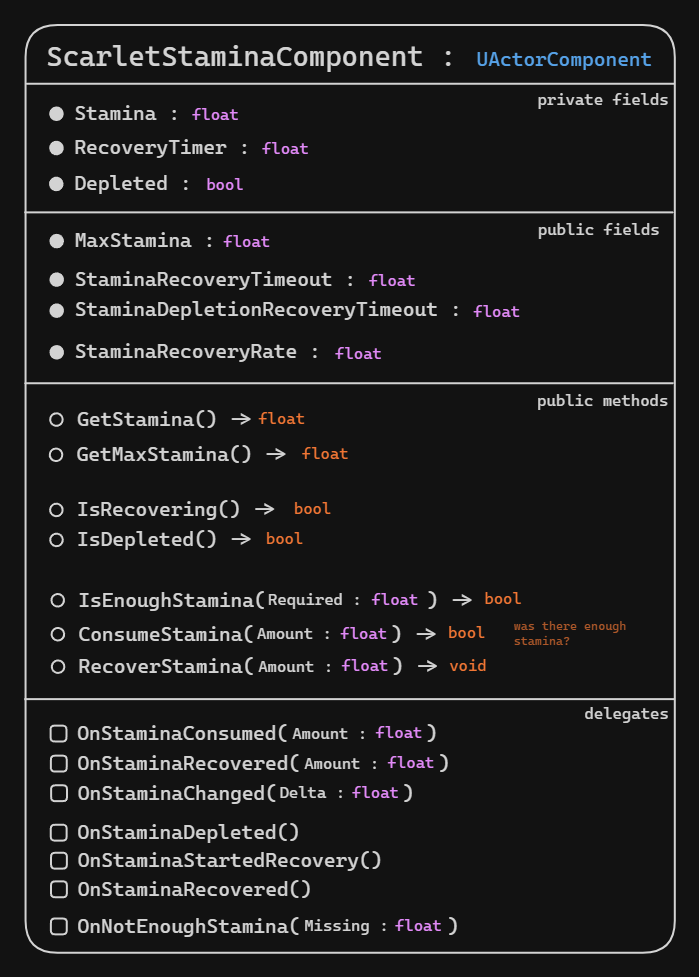
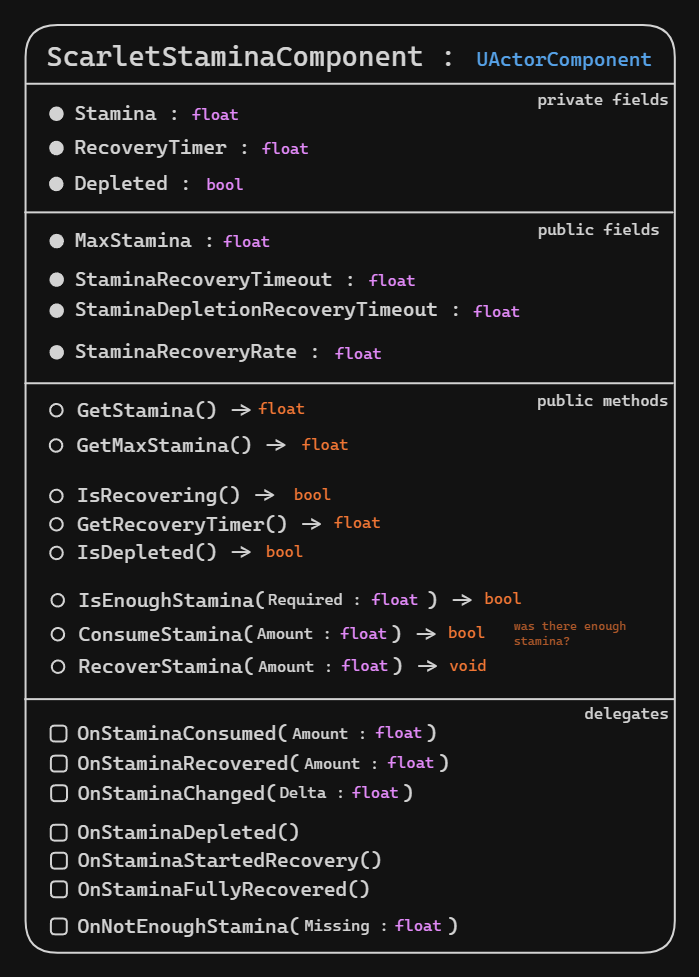
[DOCS] Code design adjustments

Changed region(s): [[0.0601, 0.3992, 0.5408, 0.5834], [0.2704, 0.8905, 0.5408, 0.9212]]

diff --git a/Documentation/Code Design.md b/Documentation/Code Design.md
@@ -124,7 +124,7 @@ OnStaminaDepleted() ^6gGfJg8X
 
 OnStaminaStartedRecovery() ^Zleio04Q
 
-OnStaminaRecovered() ^0m8OsVhT
+OnStaminaFullyRecovered() ^0m8OsVhT
 
 was there enough stamina? ^OmoCuCQX
 
@@ -136,6 +136,10 @@ Missing : ^9cOIVzkJ
 
 float ^f2dUxLPF
 
+GetRecoveryTimer() -> ^39rZRAEg
+
+float ^NKrJe1QE
+
 %%
 ## Drawing
 ```compressed-json
@@ -143,232 +147,224 @@ N4KAkARALgngDgUwgLgAQQQDwMYEMA2AlgCYBOuA7hADTgQBuCpAzoQPYB2KqATLZMzYBXUtiRoIACyh
 
[1 lines of base64/hex data omitted]
 
[2 lines of base64/hex data omitted]
 
[2 lines of base64/hex data omitted]
 
[2 lines of base64/hex data omitted]
 
[2 lines of base64/hex data omitted]
 
[2 lines of base64/hex data omitted]
 
[2 lines of base64/hex data omitted]
 
[2 lines of base64/hex data omitted]
 
[2 lines of base64/hex data omitted]
 
[2 lines of base64/hex data omitted]
 
[2 lines of base64/hex data omitted]
 
[2 lines of base64/hex data omitted]
 
[2 lines of base64/hex data omitted]
 
[2 lines of base64/hex data omitted]
 
[2 lines of base64/hex data omitted]
 
[2 lines of base64/hex data omitted]
 
[2 lines of base64/hex data omitted]
 
[2 lines of base64/hex data omitted]
 
[2 lines of base64/hex data omitted]
 
[2 lines of base64/hex data omitted]
 
[2 lines of base64/hex data omitted]
 
[2 lines of base64/hex data omitted]
 
[2 lines of base64/hex data omitted]
 
[2 lines of base64/hex data omitted]
 
[2 lines of base64/hex data omitted]
 
[2 lines of base64/hex data omitted]
 
[2 lines of base64/hex data omitted]
 
[2 lines of base64/hex data omitted]
 
[2 lines of base64/hex data omitted]
 
[2 lines of base64/hex data omitted]
 
[2 lines of base64/hex data omitted]
 
[2 lines of base64/hex data omitted]
 
[2 lines of base64/hex data omitted]
 
[2 lines of base64/hex data omitted]
 
[2 lines of base64/hex data omitted]
 
[2 lines of base64/hex data omitted]
 
[2 lines of base64/hex data omitted]
 
[2 lines of base64/hex data omitted]
 
[2 lines of base64/hex data omitted]
 
[2 lines of base64/hex data omitted]
 
[2 lines of base64/hex data omitted]
 
[2 lines of base64/hex data omitted]
 
[2 lines of base64/hex data omitted]
 
[2 lines of base64/hex data omitted]
 
[2 lines of base64/hex data omitted]
 
[2 lines of base64/hex data omitted]
 
[2 lines of base64/hex data omitted]
 
[2 lines of base64/hex data omitted]
 
[2 lines of base64/hex data omitted]
 
[2 lines of base64/hex data omitted]
 
[2 lines of base64/hex data omitted]
 
[2 lines of base64/hex data omitted]
 
[2 lines of base64/hex data omitted]
 
[2 lines of base64/hex data omitted]
 
[2 lines of base64/hex data omitted]
 
[2 lines of base64/hex data omitted]
 
[2 lines of base64/hex data omitted]
 
[2 lines of base64/hex data omitted]
 
[2 lines of base64/hex data omitted]
 
[2 lines of base64/hex data omitted]
 
[2 lines of base64/hex data omitted]
 
[2 lines of base64/hex data omitted]
 
[2 lines of base64/hex data omitted]
 
[2 lines of base64/hex data omitted]
 
[2 lines of base64/hex data omitted]
 
[2 lines of base64/hex data omitted]
 
[2 lines of base64/hex data omitted]
 
[2 lines of base64/hex data omitted]
 
[2 lines of base64/hex data omitted]
 
[2 lines of base64/hex data omitted]
 
[2 lines of base64/hex data omitted]
 
[2 lines of base64/hex data omitted]
 
[2 lines of base64/hex data omitted]
 
[2 lines of base64/hex data omitted]
 
[2 lines of base64/hex data omitted]
 
[2 lines of base64/hex data omitted]
 
[2 lines of base64/hex data omitted]
 
[2 lines of base64/hex data omitted]
 
[2 lines of base64/hex data omitted]
 
[2 lines of base64/hex data omitted]
 
[2 lines of base64/hex data omitted]
 
[2 lines of base64/hex data omitted]
 
[2 lines of base64/hex data omitted]
 
[2 lines of base64/hex data omitted]
 
[2 lines of base64/hex data omitted]
 
[2 lines of base64/hex data omitted]
 
[2 lines of base64/hex data omitted]
 
[2 lines of base64/hex data omitted]
 
[2 lines of base64/hex data omitted]
 
[2 lines of base64/hex data omitted]
 
[2 lines of base64/hex data omitted]
 
[2 lines of base64/hex data omitted]
 
[2 lines of base64/hex data omitted]
 
[2 lines of base64/hex data omitted]
 
[2 lines of base64/hex data omitted]
 
[2 lines of base64/hex data omitted]
 
[2 lines of base64/hex data omitted]
 
[2 lines of base64/hex data omitted]
 
[2 lines of base64/hex data omitted]
 
[2 lines of base64/hex data omitted]
 
[2 lines of base64/hex data omitted]
 
[2 lines of base64/hex data omitted]
 
[2 lines of base64/hex data omitted]
 
[2 lines of base64/hex data omitted]
 
[2 lines of base64/hex data omitted]
 
[2 lines of base64/hex data omitted]
 
[2 lines of base64/hex data omitted]
 
[2 lines of base64/hex data omitted]
 
[2 lines of base64/hex data omitted]
 
[2 lines of base64/hex data omitted]
 
[1 lines of base64/hex data omitted]
-
[1 lines of base64/hex data omitted]
-
[1 lines of base64/hex data omitted]
-
[1 lines of base64/hex data omitted]
-
-S4oAGcDMBZUWqbq9wAAdFIMx0tlGLAQAYsCAA===
++frx95uBEqAAfNIo4p6uKABnAzAbVBYiIAcAGXRxDF9OFniwEAGLAgAA
 ```
 %%
